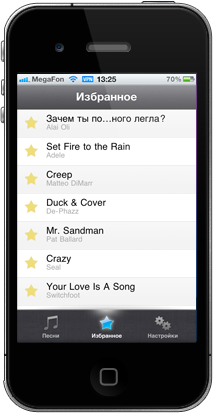
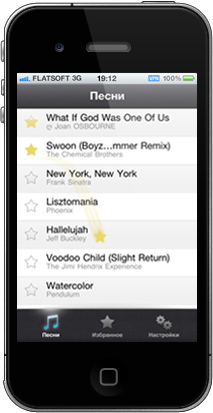
final changes for all screenshots

diff --git a/public/index.html b/public/index.html
@@ -31,9 +31,19 @@
             <ul>
               <li><img src="/content/slide1.png" alt="Загрузка приложения..." /></li>
               <li><img src="/content/slide2.png" alt="Авторизация" /></li>
+              <li><img src="/content/slide2_2.png" alt="Авторизация" /></li>
               <li><img src="/content/slide3.png" alt="Авторизация..." /></li>
               <li><img src="/content/slide4.png" alt="Синхронизация..." /></li>
+              <li><img src="/content/slide5.png" alt="Список песен" /></li>
+              <li><img src="/content/slide6.png" alt="Проигрывание песни" /></li>
+              <li><img src="/content/slide7.png" alt="Добавление в избранное" /></li>
+              <li><img src="/content/slide8.png" alt="Добавление в избранное" /></li>
+              <li><img src="/content/slide9.png" alt="Добавление в избранное" /></li>
+              <li><img src="/content/slide10.png" alt="Список избранных песен" /></li>
+              <li><img src="/content/slide11.png" alt="Настройки" /></li>
+              <li><img src="/content/slide12.png" alt="Помощь" /></li>
             </ul>
+
           </div>
         </div>
         <img src="/img/logo.png" alt="Меломан" width="426" height="93" class="logo" />

diff --git a/public/css/style.css b/public/css/style.css
@@ -85,6 +85,6 @@ header h1.video-link{margin:0 0 0 48px;padding:0;display:block;float:left;positi
 .iphone{background:url('../img/iphone.png') 0 0 no-repeat;width:274px;height:599px;float:left;margin-right:118px;position:relative;}.iphone .reflection{background:url('../img/reflection.png') top right no-repeat;z-index:9;}
 .iphone .slides li{float:left;}
 .iphone .slides .carousel-control{display:none;}
-.iphone .reflection,.iphone .slides{position:absolute;overflow:hidden;width:233px;height:334px;top:107px;right:19px;}
+.iphone .reflection,.iphone .slides{position:absolute;overflow:hidden;width:233px;height:334px;top:106px;right:19px;}
 footer{text-align:left;padding-bottom:20px;}
 @media only screen and (min-width: 480px){}@media only screen and (max-width: 768px){body{width:1000px;}}@media print{*{background:transparent !important;color:black !important;text-shadow:none !important;filter:none !important;-ms-filter:none !important;} a,a:visited{text-decoration:underline;} a[href]:after{content:" (" attr(href) ")";} abbr[title]:after{content:" (" attr(title) ")";} .ir a:after,a[href^="javascript:"]:after,a[href^="#"]:after{content:"";} pre,blockquote{border:1px solid #999;page-break-inside:avoid;} thead{display:table-header-group;} tr,img{page-break-inside:avoid;} img{max-width:100% !important;} @page {margin:0.5cm;}p,h2,h3{orphans:3;widows:3;} h2,h3{page-break-after:avoid;}}

diff --git a/public/css/meloman.css b/public/css/meloman.css
@@ -25,5 +25,5 @@ header h1.video-link{margin:0 0 0 48px;padding:0;display:block;float:left;positi
 .iphone{background:url('../img/iphone.png') 0 0 no-repeat;width:274px;height:599px;float:left;margin-right:118px;position:relative;}.iphone .reflection{background:url('../img/reflection.png') top right no-repeat;z-index:9;}
 .iphone .slides li{float:left;}
 .iphone .slides .carousel-control{display:none;}
-.iphone .reflection,.iphone .slides{position:absolute;overflow:hidden;width:233px;height:334px;top:107px;right:19px;}
+.iphone .reflection,.iphone .slides{position:absolute;overflow:hidden;width:233px;height:334px;top:106px;right:19px;}
 footer{text-align:left;padding-bottom:20px;}

diff --git a/less/meloman.less b/less/meloman.less
@@ -123,7 +123,7 @@ header {
 		overflow: hidden;
 		width: 233px;
 		height: 334px;
-		top: 107px;
+		top: 106px;
 		right: 19px;
 	}
 }
